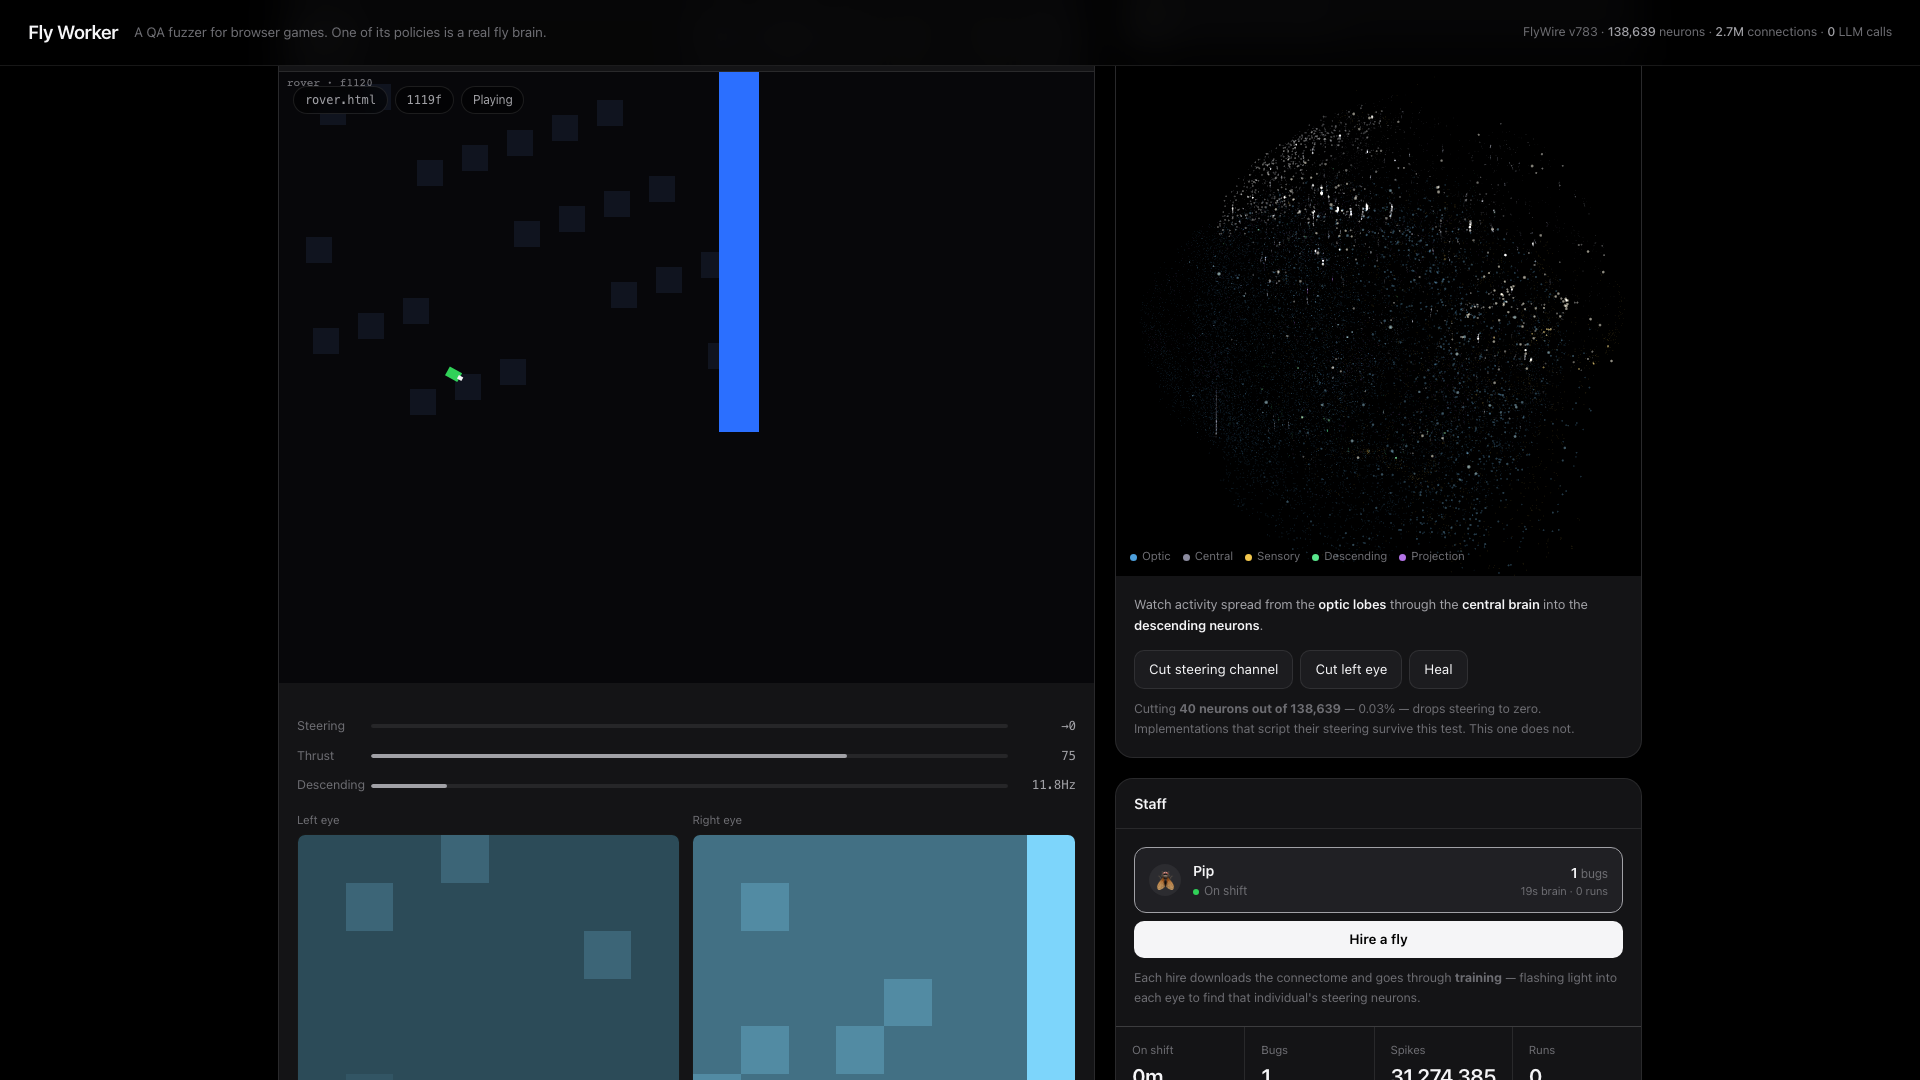
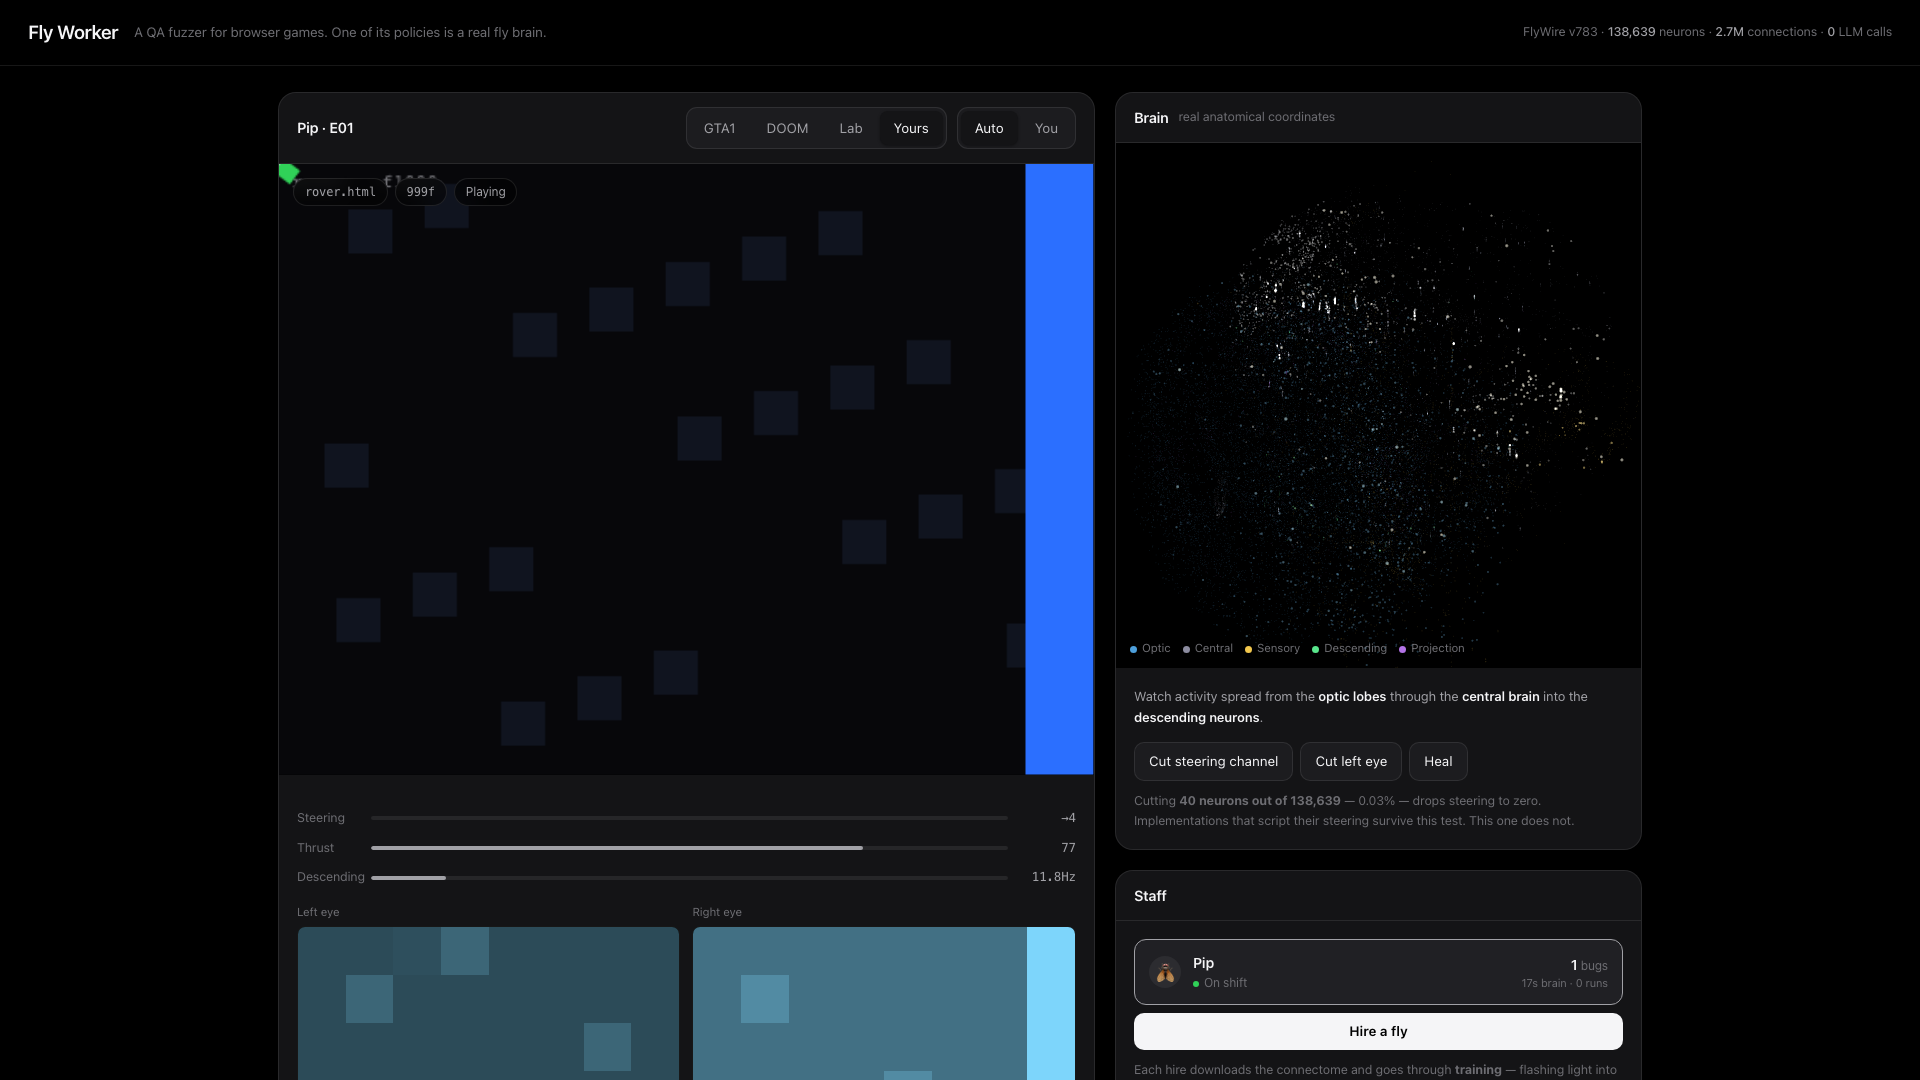
제출 자료 — 「Yours」 증거 스크린샷 추가
처음 보는 게임에 붙는 장면이 확장성 근거로 가장 강하다. 5장 중
연구실 화면을 빼고 이것을 넣는다.

diff --git a/submit/제출가이드.md b/submit/제출가이드.md
@@ -40,11 +40,13 @@ https://kimhyunwoo-flyworker.static.hf.space/
 
 | # | 파일 | 내용 |
 |---|---|---|
-| 1 | `shots/1-gta.png` | 소스 없는 GTA1 에 붙어서 플레이 + 3D 뇌 |
-| 2 | `shots/2-lesion.png` | **손상 실험** — 뉴런 40개 절단 후 조향 `·0` |
-| 3 | `shots/3-lab.png` | 연구실 게임 + 눈이 보는 것 + 발견 28건 |
-| 4 | `shots/4-policies.png` | **정책 비교표** — 초파리가 평활 난수에 진다 |
-| 5 | `shots/5-reproduce.png` | **재현** — "Exact match" |
+| 1 | `shots/1-gta.png` | 인터페이스 없는 GTA1 에 붙어서 플레이 + 3D 뇌 |
+| 2 | `shots/4-policies.png` | **정책 비교표** — 초파리가 평활 난수에 진다 |
+| 3 | `shots/6-byo.png` | **처음 보는 게임에 붙는다** — 「Yours」에 샘플 표적을 떨어뜨린 상태 |
+| 4 | `shots/5-reproduce.png` | **재현** — "Exact match" |
+| 5 | `shots/2-lesion.png` | **손상 실험** — 뉴런 40개 절단 후 조향 `·0` |
+
+여분: `shots/3-lab.png` (연구실 게임 + 눈이 보는 것 + 발견 목록) — 6장까지 올릴 수 있으면 넣습니다.
 
 ---
 
@@ -55,17 +57,19 @@ https://kimhyunwoo-flyworker.static.hf.space/
 | **기획력** | 제품은 퍼저 프레임워크이고 정책은 부품. 그래서 자기 정책이 져도 제품이 선다. 버그 개수가 가짜 지표임을 지적하고 커버리지·증상 다양성으로 바꿔 잼 |
 | **AI 활용의 적절성** | 정책 하나가 커넥톰 스파이킹 신경망(뉴런 138,639개). LLM 추론 0회, 판정은 결정적 규칙. AI를 쓴 자리와 안 쓴 자리를 구분함 |
 | **실현 가능성** | 두 곳에 배포 완료, 서버 없음. 브라우저 열면 바로 돌고 리포트가 나옴 |
-| **확장성** | 인터페이스가 없는 게임(GTA1)에도 합성 키 + 프레임버퍼 가로채기로 붙음 — 임의의 브라우저 게임에 적용 가능. 정책도 함수 하나 |
+| **확장성** | 심사위원이 자기 HTML 게임을 떨어뜨리면 그 자리에서 붙습니다(「Yours」). 인터페이스도 소스도 필요 없음. 안 되는 경우(CORS 차단 URL·DOM 게임·오염된 캔버스)도 화면에 그대로 씀 |
 | **기술력** | 커넥톰 압축(연결당 2.01B), 워커 병렬, WebGL 3D 뇌, 재현 12/12 정확 일치 |
 
 ## 차별점 한 줄
 
 > 정책을 네 개 붙여서 **같은 예산으로 재봤고, 우리 초파리가 졌습니다.**
 > 그 표를 첫 화면에 싣습니다. 제품이 정책이 아니라 프레임워크이기 때문입니다.
+> 그리고 그 프레임워크는 **심사위원이 가져온 게임에도 붙습니다** — 확인할 수 있게 만들어 뒀습니다.
 
 ## 제출 전 확인
 
 - [ ] 서비스 링크 접속 확인 (심사 기간 내내 유지되어야 함)
 - [ ] 스크린샷 5장 업로드
+- [ ] 「Yours」에서 Sample 눌러 붙는지 한 번 확인
 - [ ] 499자 설명 붙여넣기
 - [ ] **「과제 제출하기」 클릭** (임시저장 ✗)
